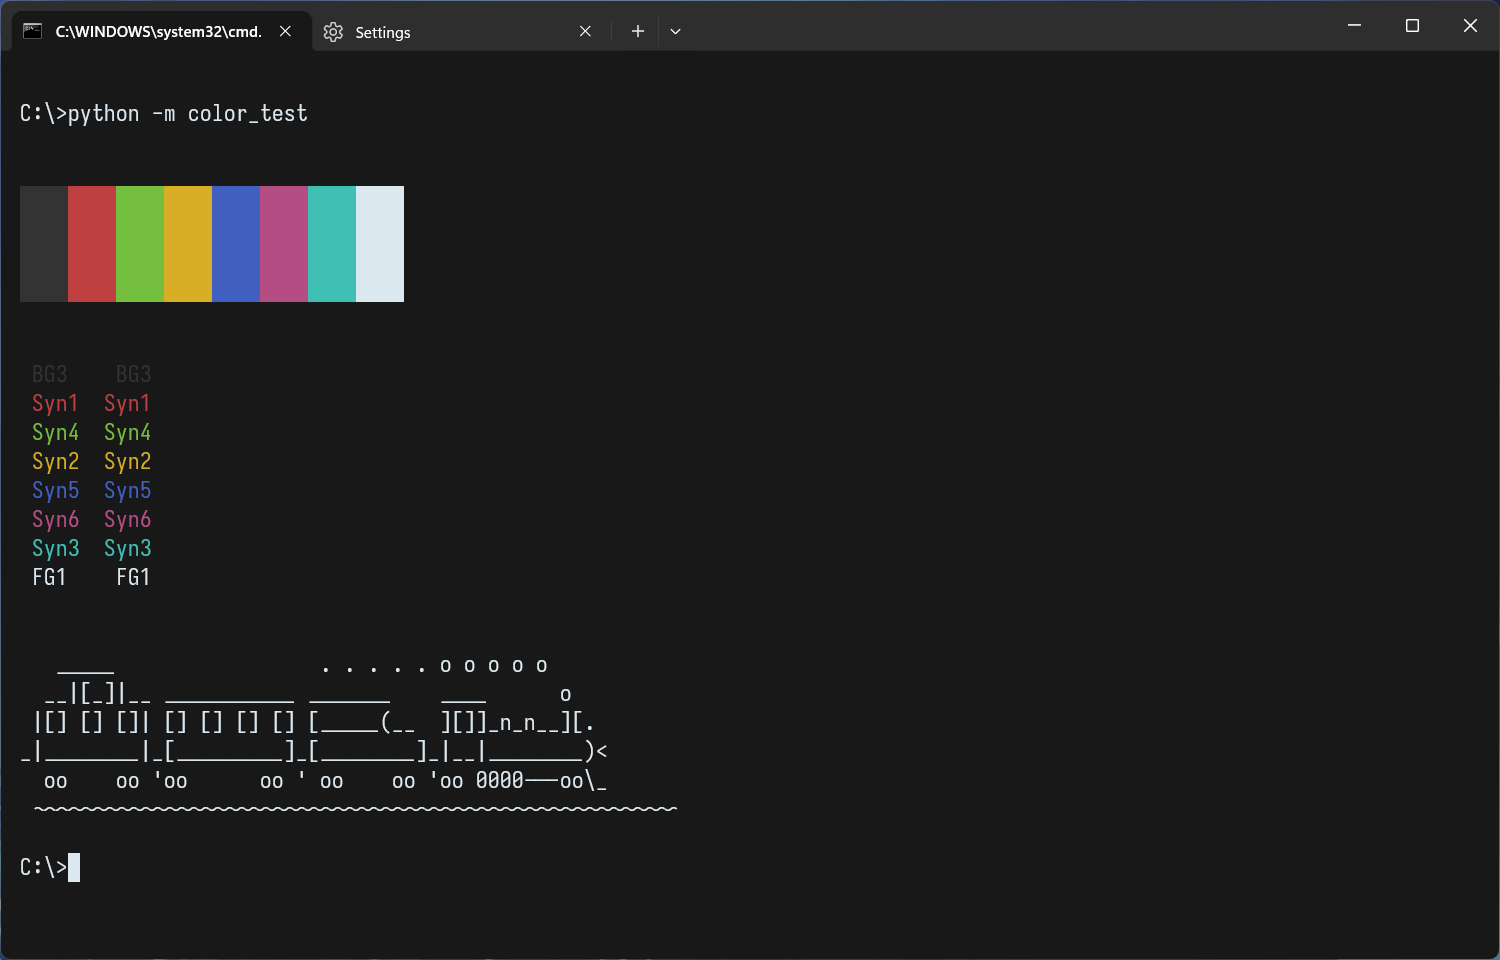
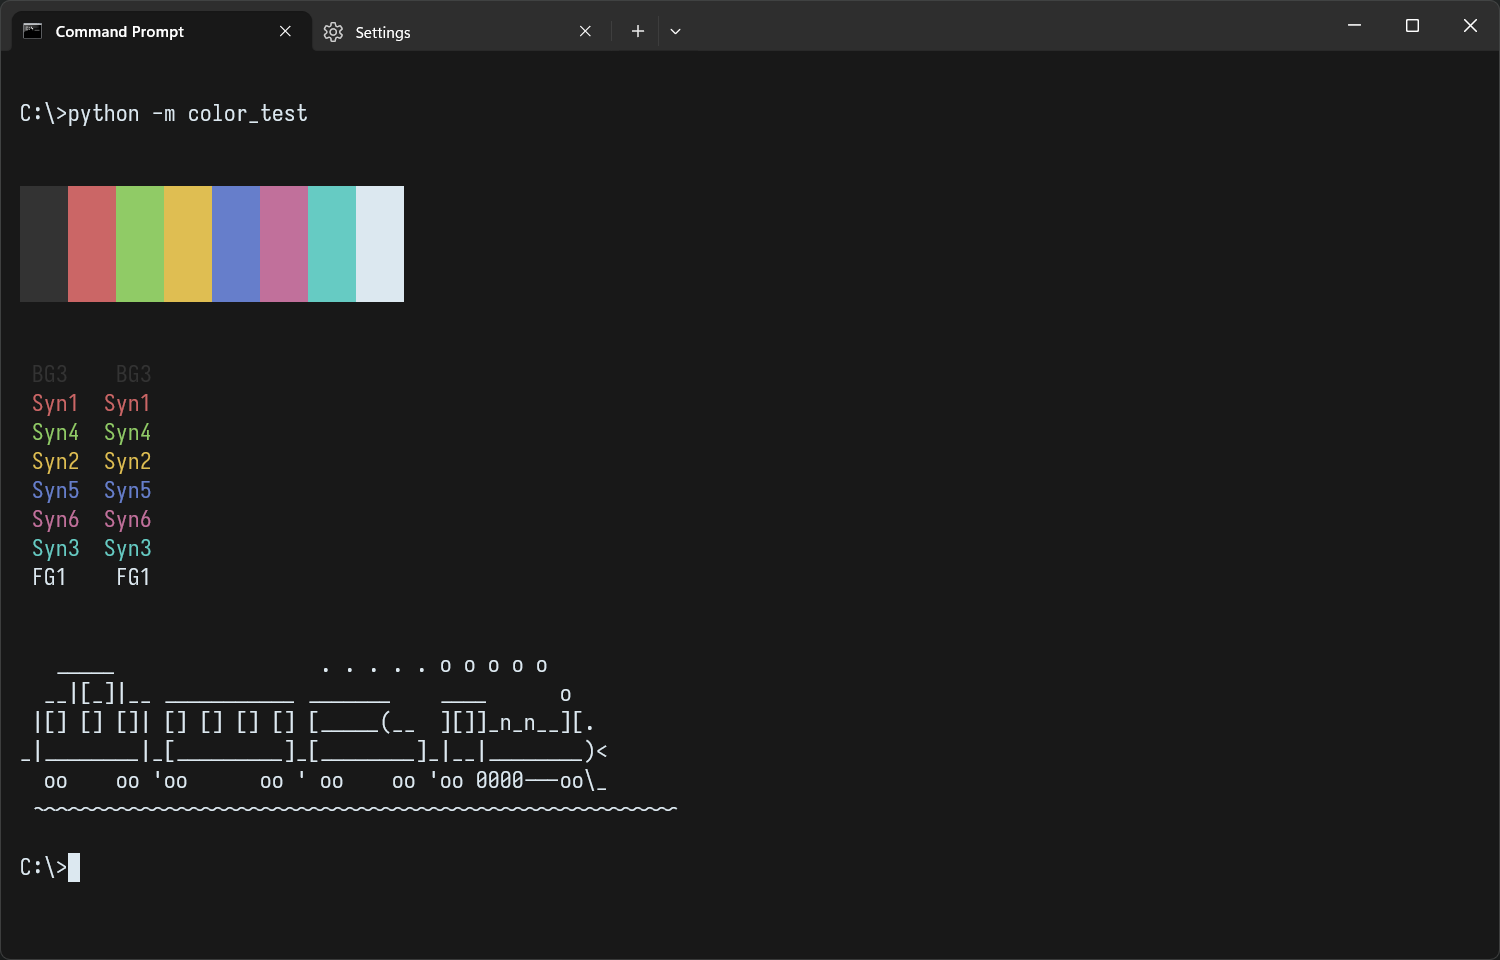
update cryogenic, neo-industrial, classic

Changed region(s): [[0.0307, 0.1875, 0.2453, 0.3125], [0.0307, 0.4062, 0.092, 0.5938], [0.0307, 0.0, 0.1533, 0.0625]]

diff --git a/scheme_files/other/classic.html b/scheme_files/other/classic.html
@@ -83,35 +83,35 @@ this template is meant as a reference sheet for your color theme
 			<tr>
 				<td>syntax 1<br><a>UI: change history modified, alert, error
                 <br>SYNTAX: macro, methods, functions, symbols (question mark, shebang, etc.)<br>TERMINAL: red</a></td>
-				<td>#BF4040</td>
-				<td style="background-color:#BF4040;"></td>
+				<td>#CB6666</td>
+				<td style="background-color:#CB6666;"></td>
 			</tr>
 			<tr>
 				<td>syntax 2<br><a>UI: change history revert origin, change history revert modified, warnings
                 <br>SYNTAX: strings, char, regex, verbatim<br>TERMINAL: yellow</a></td>
-				<td>#D8AE27</td>
-				<td style="background-color:#D8AE27;"></td>
+				<td>#DFBE52</td>
+				<td style="background-color:#DFBE52;"></td>
 			</tr>
 			<tr>
 				<td>syntax 3<br><a>SYNTAX: opertors, variables, identifiers<br>TERMINAL: cyan</a></td>
-				<td>#40BFB4</td>
-				<td style="background-color:#40BFB4;"></td>
+				<td>#66CBC3</td>
+				<td style="background-color:#66CBC3;"></td>
 			</tr>
 			<tr>
 				<td>syntax 4<br><a>UI: change history saved
                 <br>SYNTAX: conditionals, keywords, tags, commands, instructions<br>TERMINAL: green</a></td>
-				<td>#75BF40</td>
-				<td style="background-color:#75BF40;"></td>
+				<td>#90CB66</td>
+				<td style="background-color:#90CB66;"></td>
 			</tr>
 			<tr>
 				<td>syntax 5<br><a>SYNTAX: keys, types, class, groups, sections, preprocessor<br>TERMINAL: blue</a></td>
-				<td>#405FBF</td>
-				<td style="background-color:#405FBF;"></td>
+				<td>#667ECB</td>
+				<td style="background-color:#667ECB;"></td>
 			</tr>
 			<tr>
 				<td>syntax 6<br><a>SYNTAX: qualifier, numbers, booleans, attributes<br>TERMINAL: magenta (purple)</a></td>
-				<td>#b34d83</td>
-				<td style="background-color:#b34d83;"></td>
+				<td>#C1709B</td>
+				<td style="background-color:#C1709B;"></td>
 			</tr>
 		</table>
 		<br>

diff --git a/scheme_files/other/cryogenic.html b/scheme_files/other/cryogenic.html
@@ -83,35 +83,35 @@ this template is meant as a reference sheet for your color theme
 			<tr>
 				<td>syntax 1<br><a>UI: change history modified, alert, error
                 <br>SYNTAX: macro, methods, functions, symbols (question mark, shebang, etc.)<br>TERMINAL: red</a></td>
-				<td>#C98288</td>
-				<td style="background-color:#C98288;"></td>
+				<td>#dd889d</td>
+				<td style="background-color:#dd889d;"></td>
 			</tr>
 			<tr>
 				<td>syntax 2<br><a>UI: change history revert origin, change history revert modified, warnings
                 <br>SYNTAX: strings, char, regex, verbatim<br>TERMINAL: yellow</a></td>
-				<td>#D6CE74</td>
-				<td style="background-color:#D6CE74;"></td>
+				<td>#CEDC88</td>
+				<td style="background-color:#CEDC88;"></td>
 			</tr>
 			<tr>
 				<td>syntax 3<br><a>SYNTAX: opertors, variables, identifiers<br>TERMINAL: cyan</a></td>
-				<td>#7CB3CD</td>
-				<td style="background-color:#7CB3CD;"></td>
+				<td>#8cc6d9</td>
+				<td style="background-color:#8cc6d9;"></td>
 			</tr>
 			<tr>
 				<td>syntax 4<br><a>UI: change history saved
                 <br>SYNTAX: conditionals, keywords, tags, commands, instructions<br>TERMINAL: green</a></td>
-				<td>#82C9AB</td>
-				<td style="background-color:#82C9AB;"></td>
+				<td>#8cd9b3</td>
+				<td style="background-color:#8cd9b3;"></td>
 			</tr>
 			<tr>
 				<td>syntax 5<br><a>SYNTAX: keys, types, class, groups, sections, preprocessor<br>TERMINAL: blue</a></td>
-				<td>#9098D4</td>
-				<td style="background-color:#9098D4;"></td>
+				<td>#8c9fd9</td>
+				<td style="background-color:#8c9fd9;"></td>
 			</tr>
 			<tr>
 				<td>syntax 6<br><a>SYNTAX: qualifier, numbers, booleans, attributes<br>TERMINAL: magenta (purple)</a></td>
-				<td>#C897CC</td>
-				<td style="background-color:#C897CC;"></td>
+				<td>#d98cc6</td>
+				<td style="background-color:#d98cc6;"></td>
 			</tr>
 		</table>
 		<br>

diff --git a/scheme_files/other/neo-industrial.html b/scheme_files/other/neo-industrial.html
@@ -89,8 +89,8 @@ this template is meant as a reference sheet for your color theme
 			<tr>
 				<td>syntax 2<br><a>UI: change history revert origin, change history revert modified, warnings
                 <br>SYNTAX: strings, char, regex, verbatim<br>TERMINAL: yellow</a></td>
-				<td>#c8dd88</td>
-				<td style="background-color:#c8dd88;"></td>
+				<td>#CEDC88</td>
+				<td style="background-color:#CEDC88;"></td>
 			</tr>
 			<tr>
 				<td>syntax 3<br><a>SYNTAX: opertors, variables, identifiers<br>TERMINAL: cyan</a></td>
